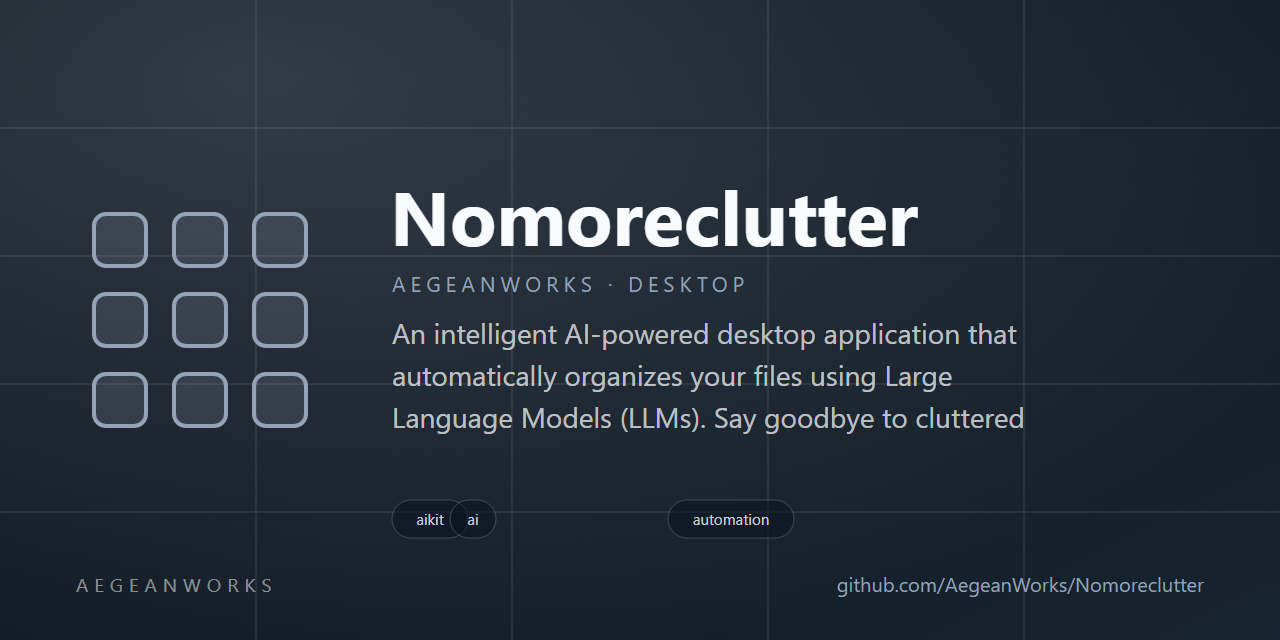
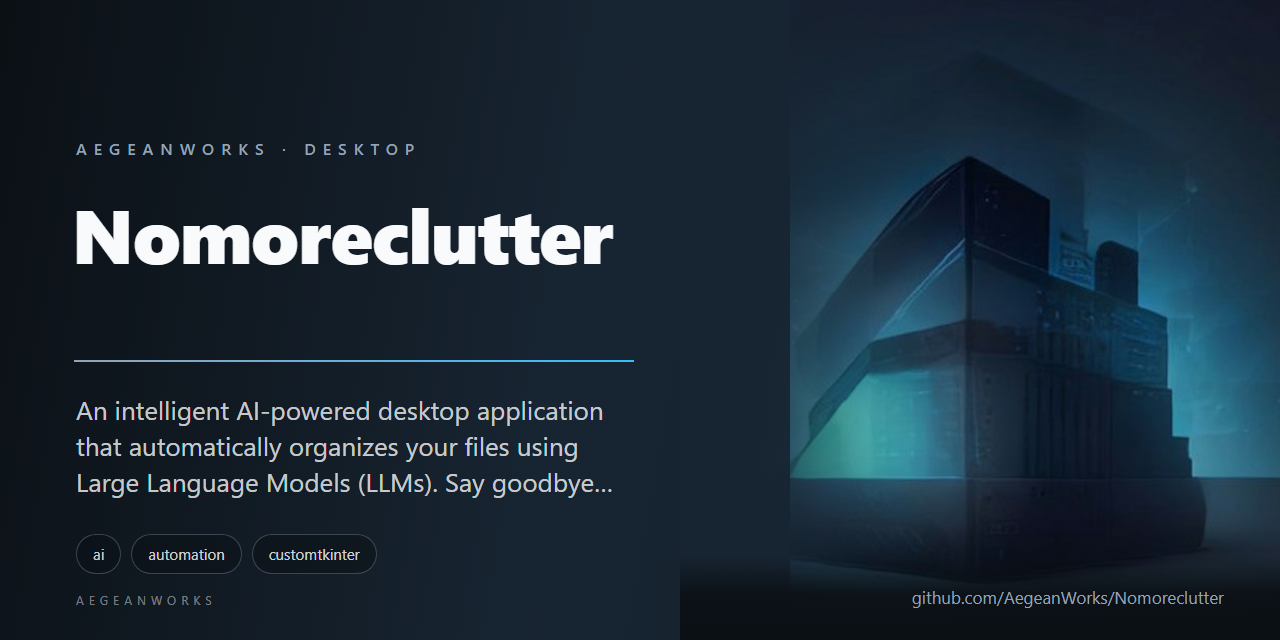
feat(brand): replace procedural marks with reviewed AI-art identities

diff --git a/README.md b/README.md
@@ -1,8 +1,8 @@
 # NoMoreClutter 🗂✨
 
 <!-- aegean:media:start -->
-<p align="center"><img src="assets/logo.svg" alt="Nomoreclutter logo" width="96" height="96"></p>
-<p align="center"><img src="assets/social-preview.svg" alt="Nomoreclutter social preview" width="100%"></p>
+<p align="center"><img src="assets/logo.png" alt="Nomoreclutter logo" width="96" height="96"></p>
+<p align="center"><img src="assets/social-preview.png" alt="Nomoreclutter social preview" width="100%"></p>
 <!-- aegean:media:end -->
 
 [![AIKit Integrated](https://img.shields.io/badge/AIKit-integrated-6f42c1)](https://github.com/AegeanWorks/AIKit)
